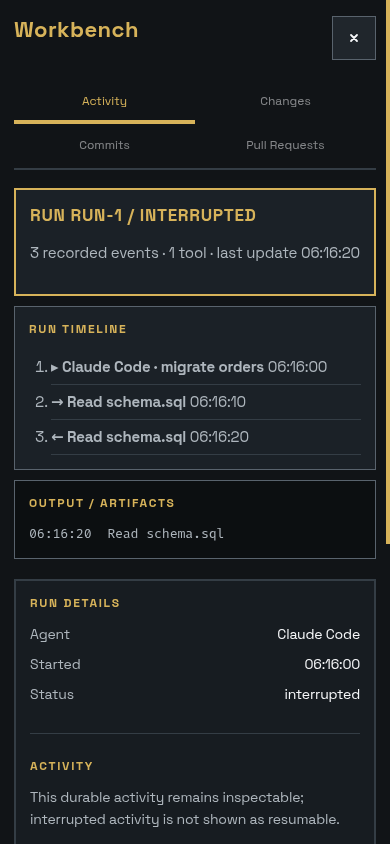
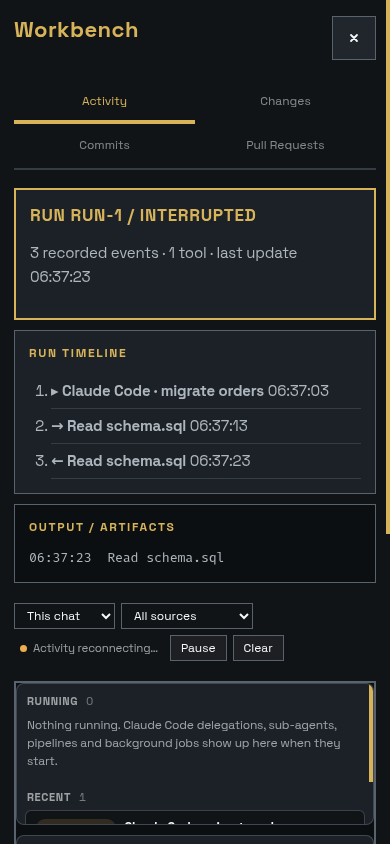
Finish Agamemnon responsive code and Workbench spacing polish

Changed region(s): [[0.0308, 0.3081, 0.9846, 1.0], [0.7692, 0.2773, 0.9231, 0.3081], [0.9846, 0.6161, 1.0, 0.6469]]

diff --git a/static/agamemnon-mockup.css b/static/agamemnon-mockup.css
@@ -210,7 +210,7 @@ html[data-theme="dark"] #agents-dashboard:not(.modal-right-docked):not(.modal-le
  * the Agamemnon layer overrides. */
 html[data-theme="dark"] #workbench-modal:not(.modal-right-docked):not(.modal-left-docked) .workbench-modal-body{display:flex;flex-direction:column;gap:18px;min-width:0;padding:0;overflow:visible}
 html[data-theme="dark"] .wb-panel[data-wb-panel="activity"]{display:grid;grid-template-columns:minmax(0,790px) minmax(240px,306px);gap:20px 28px;align-content:start;justify-content:start}
-html[data-theme="dark"] .ag-run-control{display:grid;grid-column:1;grid-row:1;grid-template-rows:auto minmax(180px,260px) minmax(110px,160px);gap:16px;min-width:0}
+html[data-theme="dark"] .ag-run-control{display:grid;grid-column:1;grid-row:1;grid-template-rows:auto auto auto;gap:16px;min-width:0;align-self:start}
 html[data-theme="dark"] .ag-run-control>section{box-sizing:border-box;min-width:0;padding:22px 26px;background:var(--ag-panel);border:2px solid var(--ag-border-strong)}
 /* One boundary for each information block, not a panel inside a second
    equally prominent panel. The active tab's feed is still its own region. */
@@ -218,15 +218,18 @@ html[data-theme="dark"] #workbench-modal .wb-panel[data-wb-panel="activity"]{pad
 html[data-theme="dark"] .ag-run-control>section{border-width:1px}
 html[data-theme="dark"] .ag-run-control>.ag-run-summary{border-width:2px}
 html[data-theme="dark"] .ag-run-summary{border-color:var(--ag-gold)!important}
-html[data-theme="dark"] .ag-run-timeline,html[data-theme="dark"] .ag-run-console{overflow:auto}
+/* Sparse runs shrink to their contents; long runs scroll within bounded
+   cards instead of making the entire Workbench several screens tall. */
+html[data-theme="dark"] .ag-run-timeline{max-height:260px;overflow:auto}
+html[data-theme="dark"] .ag-run-console{max-height:160px;overflow:auto}
 html[data-theme="dark"] .ag-run-console{background:var(--ag-console)!important}
-html[data-theme="dark"] .ag-run-detail{display:block;grid-column:2;grid-row:1;box-sizing:border-box;min-width:0;margin:0;padding:27px 24px;background:var(--ag-rail);border:2px solid var(--ag-border);overflow:auto}
+html[data-theme="dark"] .ag-run-detail{display:block;grid-column:2;grid-row:1;box-sizing:border-box;min-width:0;margin:0;padding:27px 24px;background:var(--ag-rail);border:2px solid var(--ag-border);overflow:auto;align-self:start}
 html[data-theme="dark"] .wb-panel[data-wb-panel="activity"]>.wb-toolbar,html[data-theme="dark"] .wb-panel[data-wb-panel="activity"]>.wb-activity{grid-column:1/-1;min-width:0}
 html[data-theme="dark"] #workbench-modal .workbench-modal-body>.wb-tabs{display:flex;flex-wrap:wrap;gap:4px;margin:4px 0 0;border:0;border-bottom:2px solid var(--ag-border)}
 html[data-theme="dark"] #workbench-modal .workbench-modal-body>.wb-panel{position:relative;box-sizing:border-box;padding:20px;background:var(--ag-panel);border:2px solid var(--ag-border-strong);border-radius:0}
 html[data-theme="dark"] #workbench-modal .workbench-modal-body>.wb-panel[data-wb-panel="activity"]{padding:0;background:transparent;border:0}
 html[data-theme="dark"] #workbench-modal:not(.modal-right-docked):not(.modal-left-docked) .workbench-modal-body>.wb-panel{height:auto;min-height:380px}
-html[data-theme="dark"] #workbench-modal:not(.modal-right-docked):not(.modal-left-docked) .wb-activity{min-height:280px;max-height:500px;overflow:auto}
+html[data-theme="dark"] #workbench-modal:not(.modal-right-docked):not(.modal-left-docked) .wb-activity{min-height:180px;max-height:500px;overflow:auto}
 html[data-theme="dark"] .wb-panel[data-wb-panel="activity"]::after{content:none!important}
 /* Docking rearranges the same Activity panel without turning every readout
    into its own scroll container. The dock content provides primary scrolling. */
@@ -241,7 +244,7 @@ html[data-theme="dark"] #workbench-modal .wb-panel.hidden{display:none!important
 /* ── Narrower boards ──────────────────────────────────────────────────── */
 @media(max-width:1179px){
  html[data-theme="dark"] .wb-panel[data-wb-panel="activity"]{grid-template-columns:minmax(0,1fr)}
- html[data-theme="dark"] .ag-run-control{grid-template-rows:auto minmax(0,220px) minmax(0,150px)}
+ html[data-theme="dark"] .ag-run-control{grid-template-rows:auto auto auto}
  html[data-theme="dark"] .ag-run-control,html[data-theme="dark"] .ag-run-detail{grid-column:1;grid-row:auto}
  html[data-theme="dark"] .ag-run-detail{padding:20px 22px}
 }
@@ -255,6 +258,11 @@ html[data-theme="dark"] #workbench-modal .wb-panel.hidden{display:none!important
  html[data-theme="dark"] #workbench-modal:not(.modal-right-docked):not(.modal-left-docked) .ag-run-control>section{padding:14px;min-height:0}
  html[data-theme="dark"] #workbench-modal:not(.modal-right-docked):not(.modal-left-docked) :is(.ag-run-timeline,.ag-run-console,.ag-run-detail){overflow:visible;max-height:none}
  html[data-theme="dark"] #workbench-modal:not(.modal-right-docked):not(.modal-left-docked) .ag-run-detail{padding:14px}
+ /* Activity is the selected tab's working area. Put its live controls and
+    feed before secondary run metadata on phones, without hiding details. */
+ html[data-theme="dark"] #workbench-modal:not(.modal-right-docked):not(.modal-left-docked) .wb-panel[data-wb-panel="activity"]>.wb-toolbar{grid-row:2}
+ html[data-theme="dark"] #workbench-modal:not(.modal-right-docked):not(.modal-left-docked) .wb-panel[data-wb-panel="activity"]>.wb-activity{grid-row:3}
+ html[data-theme="dark"] #workbench-modal:not(.modal-right-docked):not(.modal-left-docked) .ag-run-detail{grid-row:4}
  html[data-theme="dark"] .chat-container{padding:14px 12px calc(12px + env(safe-area-inset-bottom,0px))}
  /* Leave the top-right corner to the sidebar's hamburger. */
  html[data-theme="dark"] .ag-page-heading{padding-right:48px;margin-bottom:8px}

diff --git a/static/agamemnon-critic-fixes.css b/static/agamemnon-critic-fixes.css
@@ -12,9 +12,12 @@ html:not([data-theme="dark"]) .brand-crest-icon{display:none}
 html[data-theme="dark"] #chat-history .msg-ai{box-sizing:border-box;width:calc(100% - 32px);max-width:none;margin:18px 16px;padding:18px 20px;background:#20262c;border:1px solid var(--ag-border-strong);border-radius:0}
 html[data-theme="dark"] #chat-history .msg-ai .body{max-width:none;color:#f7f8fa}
 html[data-theme="dark"] #chat-history .msg-user{margin:0 0 18px;max-width:none;background:transparent;border:0;border-radius:0}
-/* On touch screens the always-visible run/edit/copy actions previously sat
-   over the first code line. Reserve a toolbar row above scrollable code. */
-@media(max-width:768px){html[data-theme="dark"] #chat-history pre:has(> .copy-code,> .edit-code,> .run-code){padding-top:58px}}
+/* Keep the code actions in a reserved row at every size. A long first line
+   must be readable by scrolling the code, not obscured by hover actions. */
+html[data-theme="dark"] #chat-history pre:has(> .copy-code,> .edit-code,> .run-code){padding-top:58px}
+/* The shared transcript can flip actions to the bottom of a code block near
+   the viewport edge. The themed toolbar always belongs in its reserved row. */
+html[data-theme="dark"] #chat-history pre:has(> .copy-code,> .edit-code,> .run-code) :is(.copy-code,.edit-code,.run-code).bottom{top:6px;bottom:auto}
 html[data-theme="dark"] #chat-history .msg-ai .role,html[data-theme="dark"] #chat-history .msg-user .role{color:var(--ag-gold);font:700 11px/1.2 'Space Grotesk';letter-spacing:.14em;text-transform:uppercase}
 @media(max-width:768px){html[data-theme="dark"] #chat-history .msg-ai{width:100%;margin:12px 0;padding:14px}}
 

diff --git a/static/index.html b/static/index.html
@@ -289,8 +289,8 @@
   <link rel="preload" as="font" type="font/woff2" crossorigin href="/static/fonts/FiraCode-Regular.woff2">
   <link rel="preload" as="font" type="font/woff2" crossorigin href="/static/fonts/FiraCode-SemiBold.woff2">
   <link rel="stylesheet" href="/static/style.css?v=20260930agentroom1">
-  <link rel="stylesheet" href="/static/agamemnon-mockup.css?v=20261002polish2">
-  <link rel="stylesheet" href="/static/agamemnon-critic-fixes.css?v=20261002polish2">
+  <link rel="stylesheet" href="/static/agamemnon-mockup.css?v=20261002polish3">
+  <link rel="stylesheet" href="/static/agamemnon-critic-fixes.css?v=20261002polish3">
   <link rel="stylesheet" href="/static/skill-import-review.css">
   <link rel="modulepreload" href="/static/app.js?v=20260928settingsux1">
   <link rel="modulepreload" href="/static/js/chat.js?v=20261002steer1">

diff --git a/tests/test_agamemnon_runtime_layout.py b/tests/test_agamemnon_runtime_layout.py
@@ -271,21 +271,44 @@ def test_phalanx_mobile_names_and_actions_are_reachable(open_app, width):
     assert_no_sideways_scroll(page, '.agents-modal-content')
 
 
-@pytest.mark.parametrize('width', [390, 320])
-def test_mobile_code_actions_leave_the_code_readable(open_app, width):
+@pytest.mark.parametrize('width', [1440, 390, 320])
+def test_code_actions_leave_the_code_readable(open_app, width):
     page = open_app(width)
-    code = page.eval("(() => {const p=document.querySelector('#chat-history pre:has(> .copy-code)'); const btn=p.querySelector('.copy-code');const content=p.querySelector('code');return {padding:parseFloat(getComputedStyle(p).paddingTop),buttonBottom:btn.getBoundingClientRect().bottom,codeTop:content.getBoundingClientRect().top};})()")
-    assert code['padding'] >= 44 and code['codeTop'] >= code['buttonBottom'], code
+    for flip in (False, True):
+        code = page.eval("""(() => {const p=document.querySelector('#chat-history pre:has(> .copy-code)');
+            if (%s) p.querySelectorAll('.copy-code,.edit-code,.run-code').forEach(b => b.classList.add('bottom'));
+            const content=p.querySelector('code'); const actions=[...p.querySelectorAll('.copy-code,.edit-code,.run-code')];
+            return {padding:parseFloat(getComputedStyle(p).paddingTop),
+                    buttonBottom:Math.max(...actions.map(b=>b.getBoundingClientRect().bottom)),
+                    codeTop:content.getBoundingClientRect().top};})()""" % json.dumps(flip))
+        assert code['padding'] >= 44 and code['codeTop'] >= code['buttonBottom'], code
 
 
-@pytest.mark.parametrize('width', [390, 320])
-def test_mobile_workbench_sheds_empty_run_panel_height(open_app, width):
+@pytest.mark.parametrize('width', [1440, 1024, 390, 320])
+def test_workbench_sheds_empty_run_panel_height(open_app, width):
     page = open_app(width)
     open_workbench(page)
     timeline, output = page.probe('.ag-run-timeline'), page.probe('.ag-run-console')
     # 320px wraps the event names; let real content grow instead of clipping.
-    assert timeline['height'] < 200 and output['height'] < 110, (timeline, output)
+    assert timeline['height'] < (200 if width <= 390 else 210) and output['height'] < 110, (timeline, output)
     assert_no_sideways_scroll(page, '.workbench-modal-content')
+    if width <= 390:
+        toolbar, feed, detail = (page.probe(s) for s in ('.wb-panel[data-wb-panel="activity"]>.wb-toolbar', '.wb-panel[data-wb-panel="activity"]>.wb-activity', '.ag-run-detail'))
+        assert toolbar['top'] >= output['bottom'] and feed['top'] >= toolbar['bottom'], (toolbar, feed)
+        assert detail['top'] >= feed['bottom'], (feed, detail)
+
+
+def test_long_workbench_run_panels_remain_bounded_and_scrollable(open_app):
+    page = open_app(1440)
+    open_workbench(page)
+    page.eval("""(() => {
+        const list=document.getElementById('ag-run-timeline-list');
+        for (let i=0;i<40;i++) { const li=document.createElement('li');li.textContent='Recorded step '+i;list.append(li); }
+        document.getElementById('ag-run-console-output').textContent = ('Output event\\n').repeat(50);
+    })()""")
+    for selector, cap in (('.ag-run-timeline', 260), ('.ag-run-console', 160)):
+        measured = page.eval("(() => {const e=document.querySelector('%s');return {height:e.getBoundingClientRect().height,scroll:e.scrollHeight,client:e.clientHeight};})()" % selector)
+        assert measured['height'] <= cap + 1 and measured['scroll'] > measured['client'], measured
 
 
 def test_workbench_keyboard_tabs_and_theme_switch(open_app):
